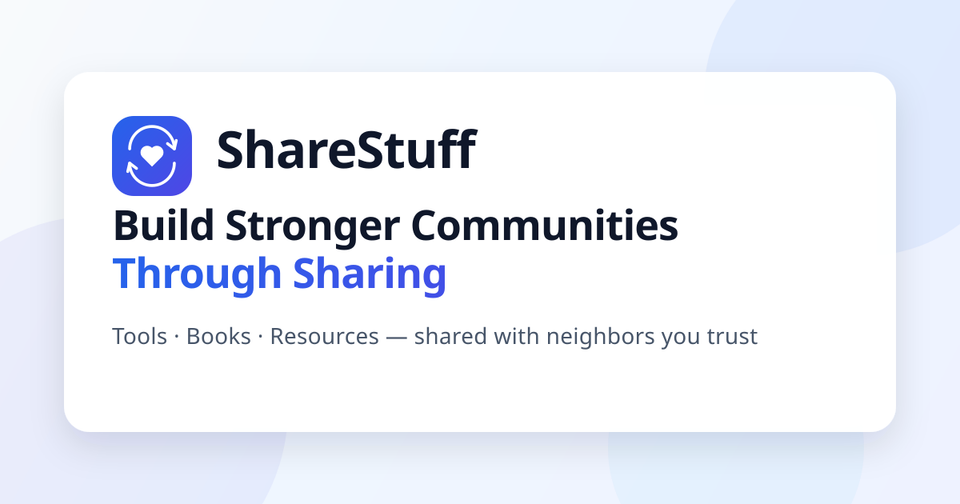
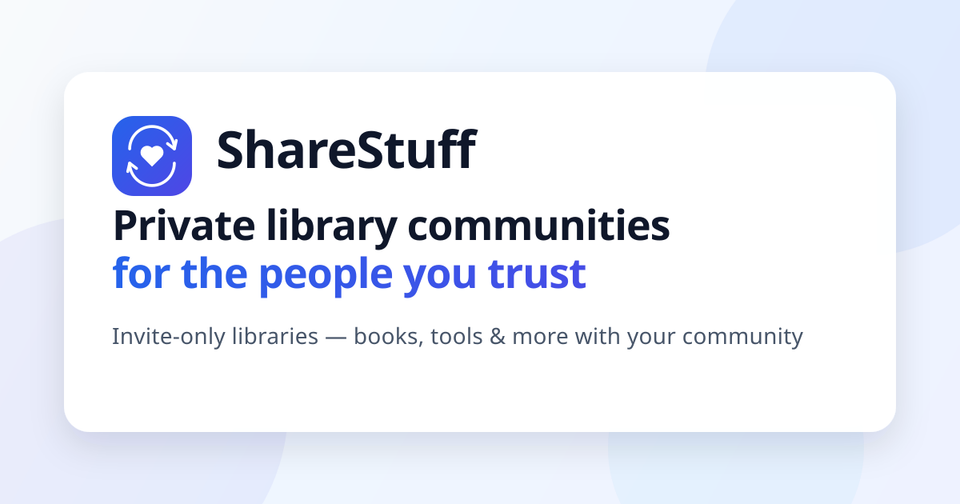
Reframe the tagline around private library communities
Update the hero, meta titles/descriptions, web manifest, and social
card / OG image so ShareStuff leads with invite-only library communities
for the people you trust.

Changed region(s): [[0.0938, 0.4167, 0.7188, 0.5952], [0.0938, 0.6548, 0.8438, 0.6845]]

diff --git a/app/routes/_index.tsx b/app/routes/_index.tsx
@@ -19,22 +19,22 @@ export const meta: MetaFunction<typeof loader> = ({ data }) => {
   const socialImageUrl = data?.socialImageUrl ?? `${requestUrl}/og-image.png`;
 
   return [
-    { title: "ShareStuff - Build Stronger Communities Through Sharing" },
-    { name: "description", content: "Join a community where neighbors share tools, books, and resources. Build connections, reduce waste, and strengthen your local community." },
+    { title: "ShareStuff - Private Library Communities" },
+    { name: "description", content: "Create private library communities for the people you trust. Invite-only sharing of books, tools, and resources." },
     
     // Open Graph tags
     { property: "og:type", content: "website" },
     { property: "og:url", content: requestUrl },
-    { property: "og:title", content: "ShareStuff - Build Stronger Communities Through Sharing" },
-    { property: "og:description", content: "Join a community where neighbors share tools, books, and resources. Build connections, reduce waste, and strengthen your local community." },
+    { property: "og:title", content: "ShareStuff - Private Library Communities" },
+    { property: "og:description", content: "Create private library communities for the people you trust. Invite-only sharing of books, tools, and resources." },
     { property: "og:image", content: socialImageUrl },
     { property: "og:image:width", content: "1200" },
     { property: "og:image:height", content: "630" },
     
     // Twitter Card tags
     { name: "twitter:card", content: "summary_large_image" },
-    { name: "twitter:title", content: "ShareStuff - Build Stronger Communities Through Sharing" },
-    { name: "twitter:description", content: "Join a community where neighbors share tools, books, and resources. Build connections, reduce waste, and strengthen your local community." },
+    { name: "twitter:title", content: "ShareStuff - Private Library Communities" },
+    { name: "twitter:description", content: "Create private library communities for the people you trust. Invite-only sharing of books, tools, and resources." },
     { name: "twitter:image", content: socialImageUrl },
   ];
 };
@@ -72,16 +72,16 @@ export default function Index() {
       <section className="relative px-4 py-20 sm:px-6 lg:px-8">
         <div className="mx-auto max-w-7xl text-center">
           <h1 className="text-4xl sm:text-5xl lg:text-6xl xl:text-7xl font-bold text-gray-900 mb-6">
-            Build Stronger
+            Private library
             <span className="block bg-gradient-to-r from-primary-600 to-secondary-600 bg-clip-text text-transparent">
-              Communities
+              communities
             </span>
-            Through Sharing
+            for the people you trust
           </h1>
           
           <p className="text-lg sm:text-xl lg:text-2xl text-gray-600 max-w-3xl mx-auto mb-12 leading-relaxed px-4">
-            Join a network where neighbors share tools, books, and resources. 
-            Reduce waste, save money, and build meaningful connections in your community.
+            Invite-only libraries where your group shares books, tools, and resources—
+            privately, with people you already know.
           </p>
 
           {!user ? (

diff --git a/app/root.tsx b/app/root.tsx
@@ -56,12 +56,12 @@ export const meta: MetaFunction<typeof loader> = ({ data }) => {
     { property: "og:url", content: requestUrl },
     {
       property: "og:title",
-      content: "ShareStuff - Build Stronger Communities Through Sharing",
+      content: "ShareStuff - Private Library Communities",
     },
     {
       property: "og:description",
       content:
-        "Join a community where neighbors share tools, books, and resources. Build connections, reduce waste, and strengthen your local community.",
+        "Create private library communities for the people you trust. Invite-only sharing of books, tools, and resources.",
     },
     { property: "og:image", content: socialImageUrl },
     { property: "og:image:width", content: "1200" },
@@ -70,12 +70,12 @@ export const meta: MetaFunction<typeof loader> = ({ data }) => {
     { name: "twitter:card", content: "summary_large_image" },
     {
       name: "twitter:title",
-      content: "ShareStuff - Build Stronger Communities Through Sharing",
+      content: "ShareStuff - Private Library Communities",
     },
     {
       name: "twitter:description",
       content:
-        "Join a community where neighbors share tools, books, and resources. Build connections, reduce waste, and strengthen your local community.",
+        "Create private library communities for the people you trust. Invite-only sharing of books, tools, and resources.",
     },
     { name: "twitter:image", content: socialImageUrl },
   ];
